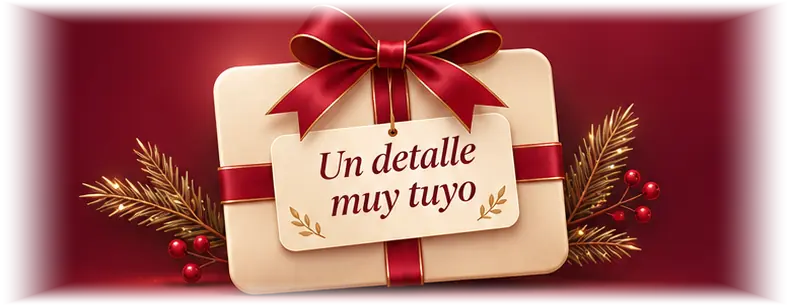
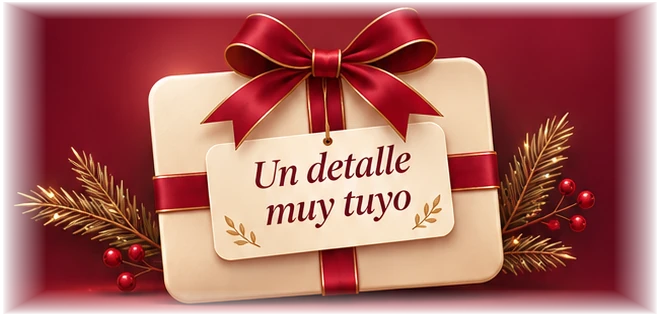
Integrar ilustración premium del regalo Eclipse y mejorar sección de personalización responsive

diff --git a/index.html b/index.html
@@ -41,7 +41,7 @@
     <h2 id="personalizarTitulo" class="custom-title">Tu idea, nuestro <em>toque especial.</em></h2>
     <p class="custom-description">¿Un nombre, una frase, una fotografía o el logo de tu empresa? Cuéntanos qué quieres personalizar y te orientamos con las opciones disponibles.</p>
     <figure class="custom-present">
-      <img src="/assets/eclipse-regalo-premium.webp" alt="Regalo Eclipse con lazo borgoña, detalles navideños y tarjeta Un detalle muy tuyo" width="790" height="306" loading="lazy" decoding="async">
+      <img src="/assets/eclipse-regalo-premium.webp" alt="Regalo Eclipse con lazo borgoña, detalles navideños y tarjeta Un detalle muy tuyo" width="660" height="316" loading="lazy" decoding="async">
     </figure>
     <div class="custom-new-steps" aria-label="Cómo solicitar tu personalización">
       <div class="custom-new-step"><svg width="29" height="29" viewBox="0 0 24 24" fill="none" stroke="currentColor" stroke-width="1.6" stroke-linecap="round" stroke-linejoin="round" aria-hidden="true"><path d="M3.5 8.5h17l-1.2 12H4.7l-1.2-12Z"/><path d="M8 9V6a4 4 0 0 1 8 0v3"/></svg><strong>01</strong><span>Elige el producto</span></div>

diff --git a/catalog-extra.css b/catalog-extra.css
@@ -91,3 +91,8 @@
  .custom-eclipse .custom-new-button {font-size:14px;gap:8px;padding:10px}
 }
 @media (prefers-reduced-motion:reduce){.custom-eclipse .custom-new-button{transition:none}}
+
+/* Imagen oficial de la sección de personalización · Eclipse 2026 */
+.custom-eclipse .custom-present{width:min(660px,100%);margin:22px auto 19px;line-height:0;}
+.custom-eclipse .custom-present img{display:block;width:100%;height:auto;aspect-ratio:660 / 316;object-fit:contain;}
+@media(max-width:760px){.custom-eclipse .custom-present{width:min(100%,660px);margin:18px auto 17px;}.custom-eclipse .custom-eclipse-content{padding-top:50px;}.custom-eclipse .custom-new-steps{margin-top:9px;}}
